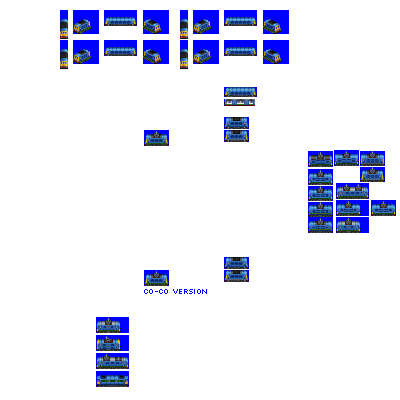
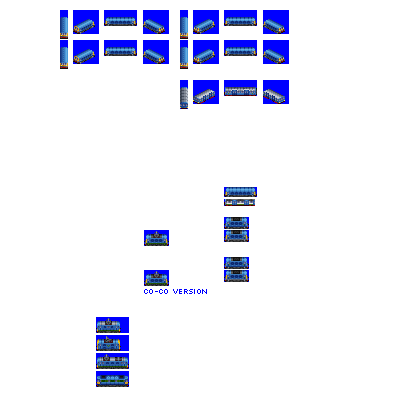
Change: sprites complete for Cringle and Mulberry metro locomotives; set weights and power for metro locomotives

diff --git a/src/vehicles/pony/debden.py b/src/vehicles/pony/debden.py
@@ -10,7 +10,7 @@ def main(roster_id, **kwargs):
         role="metro",
         role_child_branch_num=1,
         power_by_power_source={
-            "METRO": 1050,
+            "METRO": 600,
         },
         random_reverse=True,
         gen=1,
@@ -18,12 +18,12 @@ def main(roster_id, **kwargs):
         fixed_run_cost_points=120,  # substantial cost bonus for balance against same-era steam engines
         extended_vehicle_life=True,
         # note that livery names are metadata only and can repeat for different spriterows
-        #additional_liveries=["BANGER_BLUE", "INDUSTRIAL_YELLOW"],
+        additional_liveries=["INDUSTRIAL_YELLOW"],
         sprites_complete=True,
     )
 
     consist.add_unit(
-        type=MetroUnit, weight=60, vehicle_length=8, spriterow_num=0
+        type=MetroUnit, weight=46, vehicle_length=8, spriterow_num=0
     )
 
     consist.description = (

diff --git a/src/vehicles/pony/mulberry.py b/src/vehicles/pony/mulberry.py
@@ -10,7 +10,7 @@ def main(roster_id, **kwargs):
         role="metro",
         role_child_branch_num=1,
         power_by_power_source={
-            "METRO": 1050,
+            "METRO": 1200,
         },
         random_reverse=True,
         gen=3,
@@ -19,11 +19,11 @@ def main(roster_id, **kwargs):
         extended_vehicle_life=True,
         # note that livery names are metadata only and can repeat for different spriterows
         additional_liveries=["INDUSTRIAL_YELLOW"],
-        sprites_complete=False,
+        sprites_complete=True,
     )
 
     consist.add_unit(
-        type=MetroUnit, weight=60, vehicle_length=8, spriterow_num=0
+        type=MetroUnit, weight=48, vehicle_length=8, spriterow_num=0
     )
 
     consist.description = (

diff --git a/src/vehicles/pony/cringle.py b/src/vehicles/pony/cringle.py
@@ -10,7 +10,7 @@ def main(roster_id, **kwargs):
         role="metro",
         role_child_branch_num=1,
         power_by_power_source={
-            "METRO": 1050,
+            "METRO": 900,
         },
         random_reverse=True,
         gen=2,
@@ -19,11 +19,11 @@ def main(roster_id, **kwargs):
         extended_vehicle_life=True,
         # note that livery names are metadata only and can repeat for different spriterows
         additional_liveries=["INDUSTRIAL_YELLOW"],
-        sprites_complete=False,
+        sprites_complete=True,
     )
 
     consist.add_unit(
-        type=MetroUnit, weight=60, vehicle_length=8, spriterow_num=0
+        type=MetroUnit, weight=48, vehicle_length=8, spriterow_num=0
     )
 
     consist.description = (
